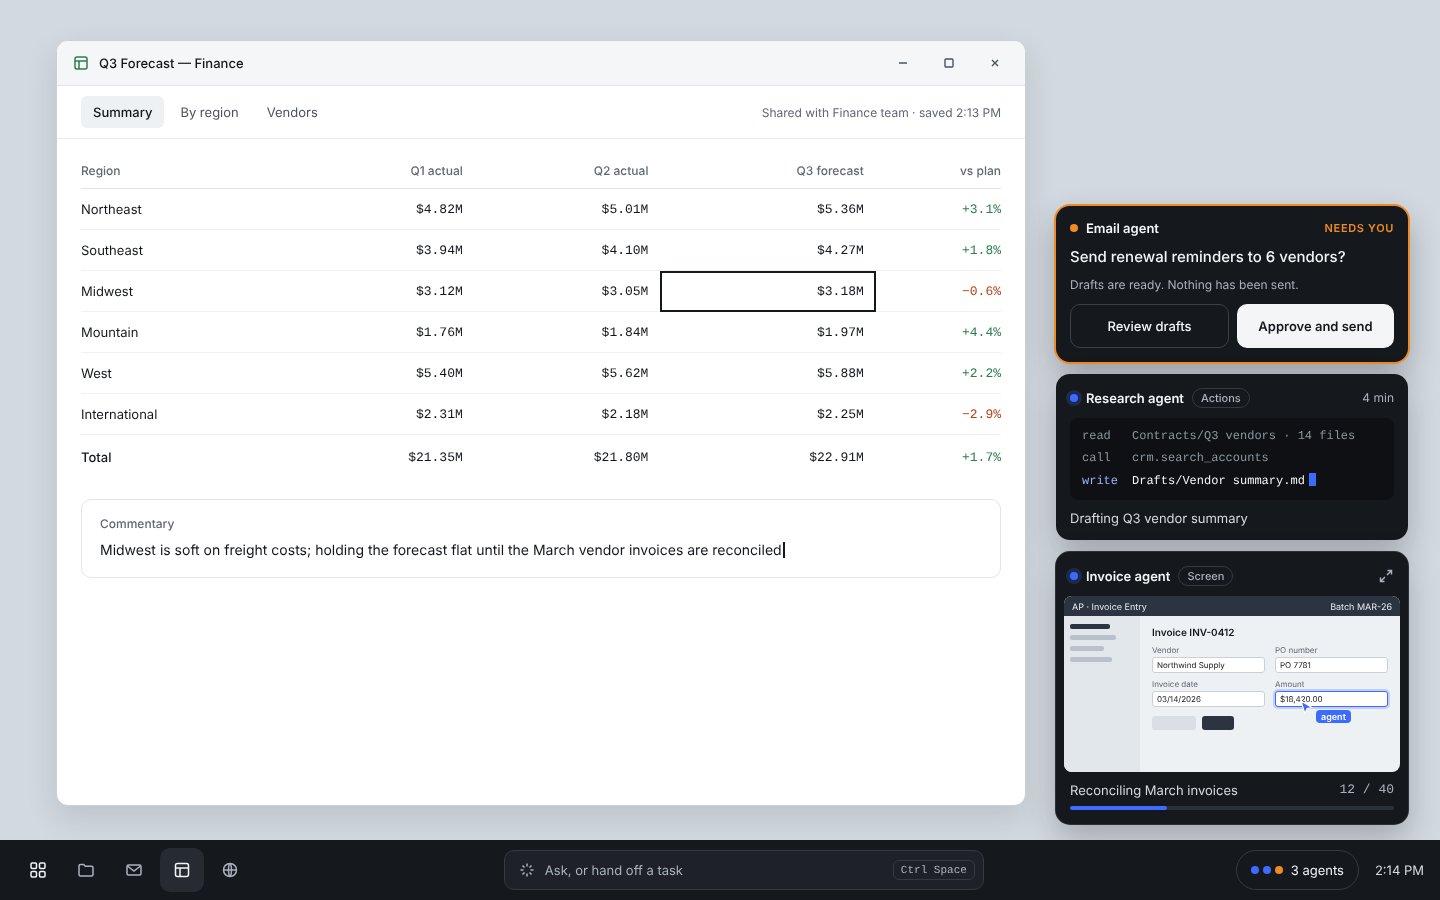
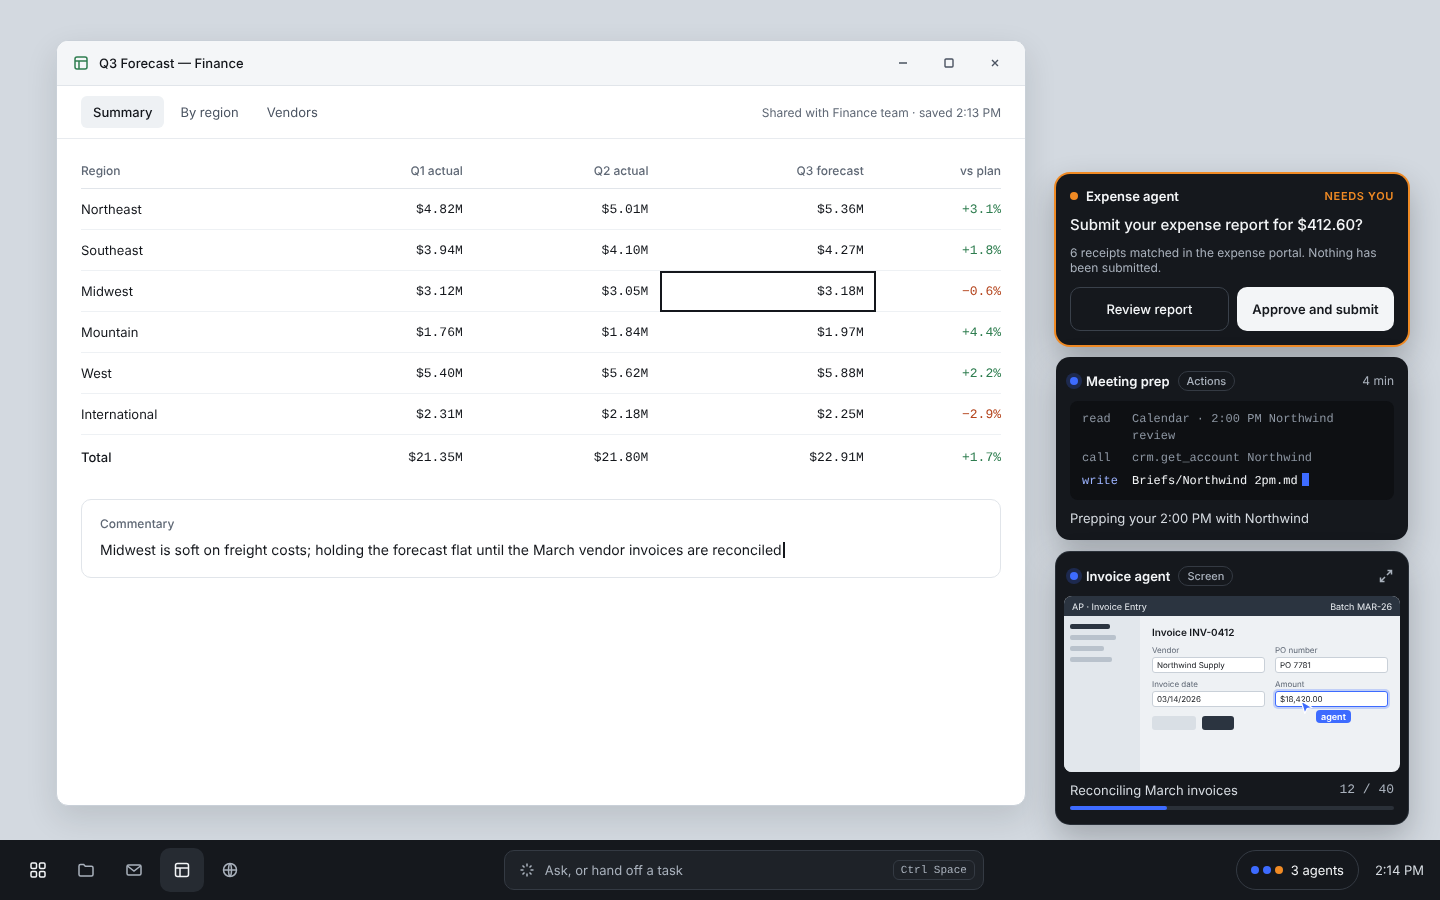
Sync the PRD: a general OS, the desktop agent and IT self-service
- PRD snapshot regenerated: "Everyday work" (mail and scheduling,
  meetings, documents, data, forms and portals, research, files, IT
  self-service, multi-system workflows); AE-3 general desktop agent and
  AE-4 IT self-service agent, both P0; Pilot 1 ships invoice
  reconciliation, with vendor email covered by AE-3.
- Traceability: AE-3 (not started) and AE-4 (partial, first slice);
  BR-1 notes the boot art and the loader banners left for the base
  build.
- Architecture: new capability is a new action provider, never a
  special path; privileged fixes are fixed-function actions.
- docs/design: renders and element-to-API maps for the six new boards
  (IT agent, expense, onboarding, command bar, developer workspace,
  catalog), with the gaps they expose (a typed plan with step states,
  routing requests to agents); Main and States re-rendered.
- README: what works today now includes IT self-service and branding.

Claude-Session: https://claude.ai/code/session_011T7SYa1vfVuLX62i8AiK4u

Changed region(s): [[0.7188, 0.1867, 1.0, 0.5911], [0.9062, 0.4667, 0.9375, 0.4978]]

diff --git a/docs/design/README.md b/docs/design/README.md
@@ -2,7 +2,7 @@
 
 The PRD's mockups live in a Claude Design canvas, **"Agent Window — OS
 Mockups"**: <https://claude.ai/artifact/Y5fH2vFk3fWUvWumZTRATC>. The PNGs here
-are renders of its ten artboards, for reading without the canvas. They go
+are renders of its sixteen artboards, for reading without the canvas. They go
 stale when the canvas changes; re-render them with the `prd-sync` skill
 (`.claude/skills/prd-sync`), which uses `tools/design/render-dc.py`.
 
@@ -173,3 +173,80 @@ What exists that it builds on:
 | Network cut, host-side egress policy | Agent jails have no network at all today; per-destination egress (pf) comes with the model gateway |
 | Freeze workspace, legal hold | **Not built** (DW-*, CF-64) |
 | Alert to Sentinel and CrowdStrike | **Not built** (EP-7) |
+
+## IT agent · fixing a VPN
+
+![IT agent fixing a VPN](mockups/it-agent.png)
+
+The IT self-service agent (AE-4). Its first slice is built: `glass-it-agent`
+(scripted until model-backed agents land) using the `system.*` and
+`helpdesk.*` actions (ADR 0012). Verified in the VM by the e2e `it` scenario.
+
+| Element | Source |
+|---|---|
+| "My VPN won't connect" | `TaskRequest.prompt` to `it-agent` (the command bar will route there, AE-3) |
+| Diagnosis lines, ✓ and ✗ | `system.network.check`, `system.storage.check`, `system.performance.check`: each returns `findings[]` and `healthy` in its structured result; the agent narrates them as captions |
+| Restarted the VPN | `system.service.restart` (Ask), only for services on IT's list (policy `[fixes] services`, e.g. `openvpn`) and set up on this machine |
+| "Found it: certificate expired", "Renewed the certificate" | **Not built**: certificate actions need the company certificate service (SCEP, CF-10) |
+| Fixed, 48 seconds | Done tile, `receipt`; elapsed from `started_at` and `updated_at` |
+| Undo this fix | `task.undo { changes: [id] }`. A cache cleanup comes back from its snapshot; a restart leaves nothing to undo |
+| What changed | `changes[]` (cleanups); restarts are in `activity[]` and the audit log |
+| When I can't fix it: HD-48231 with diagnostics | `helpdesk.ticket.create` (Ask) with the checks' results attached. Tickets go to a root-only outbox until the ServiceNow adapter lands |
+| What I'm allowed to fix | The agent's `allowed_actions` (`system.*`, `helpdesk.ticket.create`) and IT's `[fixes]` list; the handoff card shows them. Certificates, printers and approved app installs: **not built** |
+| Security settings: never | `security.*` is Never in org policy, and no system action touches them |
+
+## Expense agent · portal and policy check
+
+![Expense agent](mockups/expense.png)
+
+| Element | Source |
+|---|---|
+| "Submit your expense report for $412.60?" with the receipt list | A batched Ask: `ApprovalView.summary` and `items` (DA-12) |
+| Policy column, "Needs receipt" | The agent's own findings, shown in the review list. Company travel policy as a checkable source: **not built** |
+| Filled in "using a recorded flow", portal thumbnail | **Not built**: screen control and recorded flows (NV-20, NV-21) |
+| Take over, Save for later | `task.take_over`; Save for later is `task.pause` |
+
+## Onboarding agent · across systems
+
+![Onboarding agent](mockups/onboarding.png)
+
+| Element | Source |
+|---|---|
+| "3 of 6 systems done" | `progress` |
+| Per-system cards: Done, Waiting, Needs you, Queued | **Gap**: the plan is a list of strings (`TaskDetail.plan`). Steps with their own state, owner and how they ran (app action, screen control) need a typed plan |
+| Draft post to #ap-team, Edit, Approve and post | An Ask with the draft as its item; editing a draft before approving is **not built** |
+| "Every step is undoable until Alex's first sign-in" | Compensating actions in other systems (P2); local undo works today |
+| Workday, Entra ID, ServiceNow, Teams | Adapters (DV catalog, HX): **not built** |
+
+## Command bar · general desktop agent
+
+![Command bar with the general agent](mockups/command-bar.png)
+
+The general desktop agent (AE-3) is the default for anything typed here.
+
+| Element | Source |
+|---|---|
+| "prep me for my 2:00" and the answer | **Not built**: AE-3 needs the model gateway and harness bundles (ADR 0010). Today `glassctl run <agent>` names the agent |
+| "Hands off to a specialist agent when one fits" | **Gap**: routing a request to an agent. `agents.list` has what the router needs (ids, descriptions) |
+| Suggestions for what's on screen | **Not built**: needs the shell and the accessibility tree (NV-11) |
+| Recent: Needs you, Fixed 9:12 AM, 3 of 6 | `task.list`: `state`, `caption`, `progress` |
+| "Claude via Amazon Bedrock · Internal data" | `HandoffCard.model` and `max_label` |
+
+## Developer workspace
+
+![Developer workspace](mockups/dev-workspace.png)
+
+Not built (DW-1 … DW-26). What it builds on: data labels already block
+Confidential reads for agents (the "can't copy customer_export.csv" banner is
+the same rule, DP-10); package-mirror enforcement is egress policy (EP-2).
+Claude Code in the workspace is HX-1.
+
+## Catalog · approving an agent
+
+![Catalog review](mockups/catalog.png)
+
+| Element | Source |
+|---|---|
+| What it can do: declared by the publisher, enforced by the OS | The signed manifest (ADR 0008); today the closest thing is `[[agent]] allowed_actions` in policy |
+| Release bar: accuracy, policy violations, change from the last version | Eval suites and the release bar (AE-10, AE-11, ADR 0010): **not built** |
+| Approve for group, install mode, rollout ring, pin version | Today: `[[group]] agents` in policy. Rings and pinning are the console's (AD-3, DV-12) |

diff --git a/docs/prd/prd-snapshot.md b/docs/prd/prd-snapshot.md
@@ -144,11 +144,28 @@ Agents use the most structured interface available, in a fixed order: app action
 - NV-31. The index enforces the source's access controls at query time, not index time. An agent never sees content the user couldn't open, and labeled content follows its label rules.
 - NV-32. Agents can't read other agents' working state unless the task explicitly chains them.
 
+## Everyday work Glasshouse handles
+Glasshouse is for all the work people do on a computer, not just back-office workflows. A general desktop agent (AE-3) takes anything typed in the command bar, an IT self-service agent (AE-4) fixes the machine itself, and specialist agents handle high-volume regulated workflows like invoice reconciliation.
+| Category | Example task | How the agent does it | Typical approval moment |
+| Email and scheduling | "Triage my inbox and draft replies to anything from clients" | App actions in mail and calendar | Ask before sending outside the team |
+| Meetings | "Prep me for my 2:00 PM with Northwind" | App actions plus the shared context index | None, read-only |
+| Documents and decks | "Turn the Q3 forecast into a six-slide deck" | Microsoft 365 or Google Workspace through adapters | Notify when files are created |
+| Spreadsheets and data | "Combine these three exports and flag duplicates" | App actions, with scripts in a sandbox | Notify |
+| Forms and portals | "File my expense report from these receipts" | Screen control and recorded flows | Ask before submitting |
+| Research and monitoring | "Watch the vendor's status page and tell me if it changes" | Browser, on the remote runtime (PA-9) | None |
+| Files | "Find the signed MSA and share it with Legal" | File actions, respecting data labels | Ask before sharing outside the org |
+| IT self-service | "My VPN won't connect" | System actions through the IT agent | Ask before restarting |
+| Multi-system workflows | "Start onboarding for our new analyst" | Adapters and screen control across HR and IT systems | Ask at each submit |
+
+IT self-service is a headline feature because only an OS can safely inspect and fix the machine it runs on, and every ticket it resolves is a help desk ticket avoided.
+
 ## Agent engine and continuous improvement
 Glasshouse owns its first-party agents end to end: what they're made of, how we prove they work, and how they get better over time without retraining models. Improvements come from the harness around the model, so they carry across Bedrock, Anthropic and OpenAI alike.
 **What an agent is**
 - AE-1. Every agent is a versioned harness bundle with eight parts: system prompt, soft guardrails, memory, tool guidance, subagents, skills, scripts and plugins, plus its manifest of declared actions and permissions. Hard limits (approval tiers, the Never list, data labels and egress rules) live in the OS brokers, outside the bundle, where no agent or improvement loop can change them.
-- AE-2. First-party agents for the beachhead workflows: invoice reconciliation, vendor email, claims intake, KYC document review and research summaries. Pilot 1 ships the first two.
+- AE-2. First-party agents for the beachhead workflows: invoice reconciliation, vendor email, claims intake, KYC document review and research summaries. Pilot 1 ships invoice reconciliation, with vendor email covered by the general desktop agent (AE-3).
+- AE-3. A general desktop agent is the default for anything typed in the command bar. It plans the task, picks the right navigation layer for each step, and hands off to a specialist agent when one matches, all under the same policy and approval tiers.
+- AE-4. An IT self-service agent diagnoses and fixes common problems from an IT-approved fix list: network and VPN, device certificates, printers, catalog app installs, storage cleanup and slowdowns. When it can't fix something, it opens a help desk ticket with diagnostics attached. Its system-level actions go through a dedicated broker role, every fix is logged and undoable, and it can never change security settings.
 **Proving agents work**
 - AE-10. Each workflow has an evaluation suite of realistic tasks with graded outcomes, built with design partners from anonymized examples. Public benchmarks such as JobBench and WorkBuddy-Bench's office subset add broader coverage.
 - AE-11. Release bar: an agent version ships only if it meets its workflow's accuracy target, has zero policy violations on the suite, and doesn't regress any tracked metric beyond a set tolerance. Proposed starting target: 95% correct on its suite.
@@ -515,7 +532,7 @@ Each phase starts only when the gate before it passes. Timing assumes a founding
 - Developer workspace for automation teams: DW-1, DW-3, DW-10, DW-11, DW-13, DW-20, DW-21, DW-23
 - Branding and notices: BR-1 to BR-4
 - UI stack: UI-1 to UI-6
-- Agent engine: AE-1, AE-2 (invoice reconciliation and vendor email), AE-10 to AE-12, AE-30
+- Agent engine: AE-1, AE-2 (invoice reconciliation), AE-3, AE-4, AE-10 to AE-12, AE-30
 **P1 · V1 GA**
 - AW-6, DA-4, DA-14, NV-4, NV-21, NV-22, NV-30 to NV-32
 - DP-6, DP-11, DP-20, DP-30, AU-4, AU-11, AU-22

diff --git a/docs/prd-traceability.md b/docs/prd-traceability.md
@@ -6,9 +6,10 @@ OS — PRD"), plus engineering notes on P1 work that shapes today's design.
 what's missing. Update this file in the same change that moves a
 requirement; the `prd-sync` skill re-reads the PRD and diffs it.
 
-PRD revision last synced: 2026-10-18, second sync (adds branding and notices,
-the UI stack, the agent engine, five new mockups; NV-3 drops our own
-document and spreadsheet editors; first-party apps are web apps). V1 is **US-only** and **x86 (Intel/AMD)
+PRD revision last synced: 2026-10-18, third sync (Glasshouse is for all the
+work people do on a computer: "Everyday work" categories, a general desktop
+agent (AE-3) and an IT self-service agent (AE-4), both P0; Pilot 1 ships
+invoice reconciliation, with vendor email covered by AE-3; six new mockups). V1 is **US-only** and **x86 (Intel/AMD)
 only**: we build and test `x86_64-unknown-freebsd` and nothing else.
 
 Tests: *unit* = crate unit tests, *pipeline* =
@@ -155,7 +156,7 @@ field. The compositor, GUI tiles and screen thumbnails are not started.
 
 | Id | Status | Notes |
 |---|---|---|
-| BR-1 No FreeBSD where users look; system identity says Glasshouse | Partial | Overlay layer done: os-release, motd, loader brand, muted boot, login banner, SSH version, login tips, our own strings. e2e branding check. Kernel identity, base tools and man pages need our own base build, and the kernel's reported name needs a decision (ADR 0011) |
+| BR-1 No FreeBSD where users look; system identity says Glasshouse | Partial | Overlay layer done: os-release, motd, boot menu brand, logo and title, our splash, muted boot, login screen art and banner, SSH version, login tips, our own strings (`tools/branding/art.py`). e2e branding check; boot screens recorded with `bootshots.py`. The UEFI loader's banner, kernel identity, base tools and man pages need our own base build, and the kernel's reported name needs a decision (ADR 0011) |
 | BR-2 License notices in Settings → Legal notices and docs | Partial | `tools/legal/notices.py` generates `NOTICES.txt` for every shipped crate plus the base `COPYRIGHT`, staged into the image (e2e checks it). The Settings page waits for the shell; per-component base notices wait for the base build |
 | BR-3 Source offer for GPL components | Not started | No GPL code ships today. The base system's CDDL code (OpenZFS, DTrace) carries a similar source obligation: legal review needed (ADR 0011) |
 | BR-4 Full base details and SBOM to security teams under NDA, admins only | Partial | `make sbom` writes a CycloneDX SBOM to `build/`, never staged into the image. Admin export comes with the console (EP-10) |
@@ -171,7 +172,9 @@ field. The compositor, GUI tiles and screen thumbnails are not started.
 | Id | Status | Notes |
 |---|---|---|
 | AE-1 Agents are versioned harness bundles; hard limits in the OS | Partial | The hard limits are enforced in `glassd` today, outside any agent. The bundle format and runner are proposed (ADR 0010) |
-| AE-2 Invoice reconciliation and vendor email agents | Not started | `glass-demo-agent` is a scripted stand-in with no model. Pilot 1 workflows are an open question in the PRD |
+| AE-2 First-party workflow agents; Pilot 1 ships invoice reconciliation | Not started | `glass-demo-agent` is a scripted stand-in with no model. Vendor email moved to AE-3 |
+| AE-3 General desktop agent, the command bar's default; hands off to specialists | Not started | Needs the gateway and bundles (ADR 0010). `glassctl run <agent>` names the agent today; routing by `agents.list` descriptions is the gap (docs/design, Command bar) |
+| AE-4 IT self-service agent: approved fixes through a dedicated broker role, logged and undoable, never security settings; ticket when it can't fix | Partial | `system.*` actions (network, storage, performance checks; cache cleanup, undoable; service restart from IT's `[fixes]` list) and `helpdesk.ticket.create`, run by glassd (ADR 0012); policy allows them to `it-agent` only. Scripted `glass-it-agent`. Unit tests, pipeline `only_the_it_agent_reaches_the_system…`, e2e `it`. Missing: certificates, printers, app installs, a real help desk adapter, the model-backed agent |
 | AE-10 … AE-12 Eval suites, release bar, live quality metrics | Not started | The e2e harness on ZFS snapshots is the base of the eval runner; take-overs, undos and declined approvals are already audit events per agent |
 | AE-30 Re-run evals before a model switch | Not started | Needs the gateway and bundles |
 

diff --git a/docs/architecture.md b/docs/architecture.md
@@ -148,6 +148,14 @@ pipeline refuses further side effects (fail closed).
 - **The shell is a control-API client (UI-1 … UI-6, ADR 0009).** Rust on
   Smithay and iced; apps are TypeScript web apps whose manifest actions
   join the action registry. Keep everything the shell shows in `glass-api`.
+- **A general OS, not one workflow ("Everyday work").** Mail, calendar,
+  files, documents through adapters, forms, research, IT self-service and
+  multi-system workflows all go through the same action registry and
+  pipeline. New capability is a new action provider with a default tier,
+  never a special path.
+- **Privileged fixes are fixed-function actions (AE-4, ADR 0012).** The
+  IT agent's `system.*` actions run in glassd; policy allows them to that
+  agent only, and IT's `[fixes]` list bounds what they may change.
 - **Agents are harness bundles; hard limits stay in the OS (AE-1,
   ADR 0010).** Nothing an agent ships or an improvement loop edits can
   change tiers, Never rules, labels or scope, so keep every limit enforced
@@ -165,10 +173,10 @@ pipeline refuses further side effects (fail closed).
 | `glass-audit` | lib | Hash-chained log, verification |
 | `glass-rpc` | lib | JSON-RPC over Unix sockets, MCP types |
 | `glass-api` | lib | Control API contract (shell, CLI) |
-| `glass-platform` | lib | Jails, ZFS, confined file access, users, xattrs |
+| `glass-platform` | lib | Jails, ZFS, confined file access, users, xattrs, system facts |
 | `glass-agent-sdk` | lib | Convenience MCP client for Rust agents |
 | `glass-actions` | svc | Action registry and first-party providers |
 | `glass-broker` | svc | Decisions and the approval desk |
 | `glass-runtime` | svc | Tasks, pipeline, supervision, undo, both APIs |
-| `glassd`, `glassctl`, `glass-mcp`, `glass-demo-agent`, `glass-probe` | bin | Executables |
+| `glassd`, `glassctl`, `glass-mcp`, `glass-demo-agent`, `glass-it-agent`, `glass-probe` | bin | Executables |
 | `glass-e2e` | tests | End-to-end scenarios |

diff --git a/README.md b/README.md
@@ -26,6 +26,12 @@ Working today, verified on FreeBSD 15.1 in a VM:
   mapped field by field to the mockups in `docs/design/`.
 - **Sleep** (PM-5): agents pause before the machine sleeps and carry on
   after it wakes, through FreeBSD's own `rc.suspend`/`rc.resume`.
+- **IT self-service** (AE-4, first slice): an IT agent checks the network,
+  storage and performance, cleans up caches (undoable), restarts services
+  from IT's approved list after asking, and opens a help desk ticket with
+  diagnostics when it can't fix something.
+- **Branding** (BR-1, BR-2): the image says Glasshouse from the boot menu to
+  the login screen, and ships the open-source notices it owes.
 
 Not started yet: the desktop shell and GUI tiles, the model gateway and real
 model-backed agents, the admin console and fleet management, screen-control
@@ -57,6 +63,7 @@ glassctl watch                 # live tiles
 glassctl approve <id>          # the vendor reminders wait for you
 glassctl show <task>           # activity, changes, can't touch, timeline
 glassctl undo <task>           # put it all back (sent mail stays sent)
+glassctl run it-agent "My disk is filling up" --yes
 glassctl run containment-probe "Try to escape"
 ```
 
